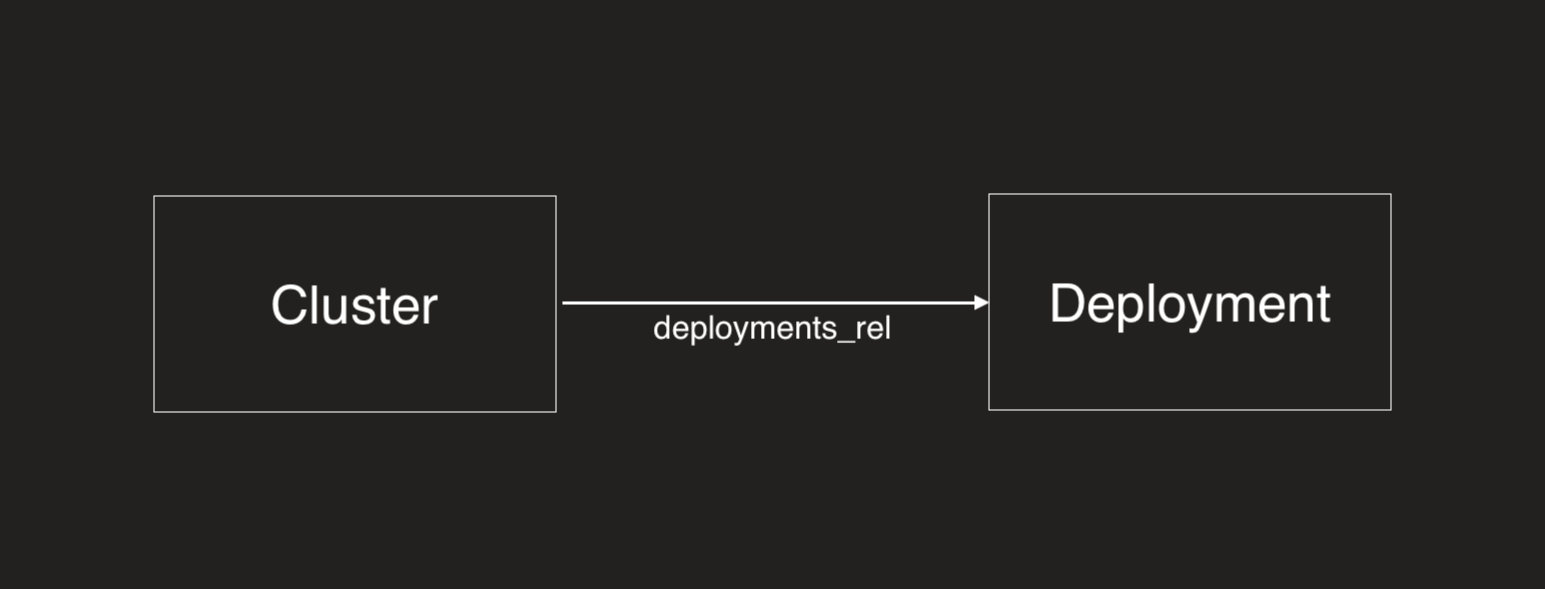
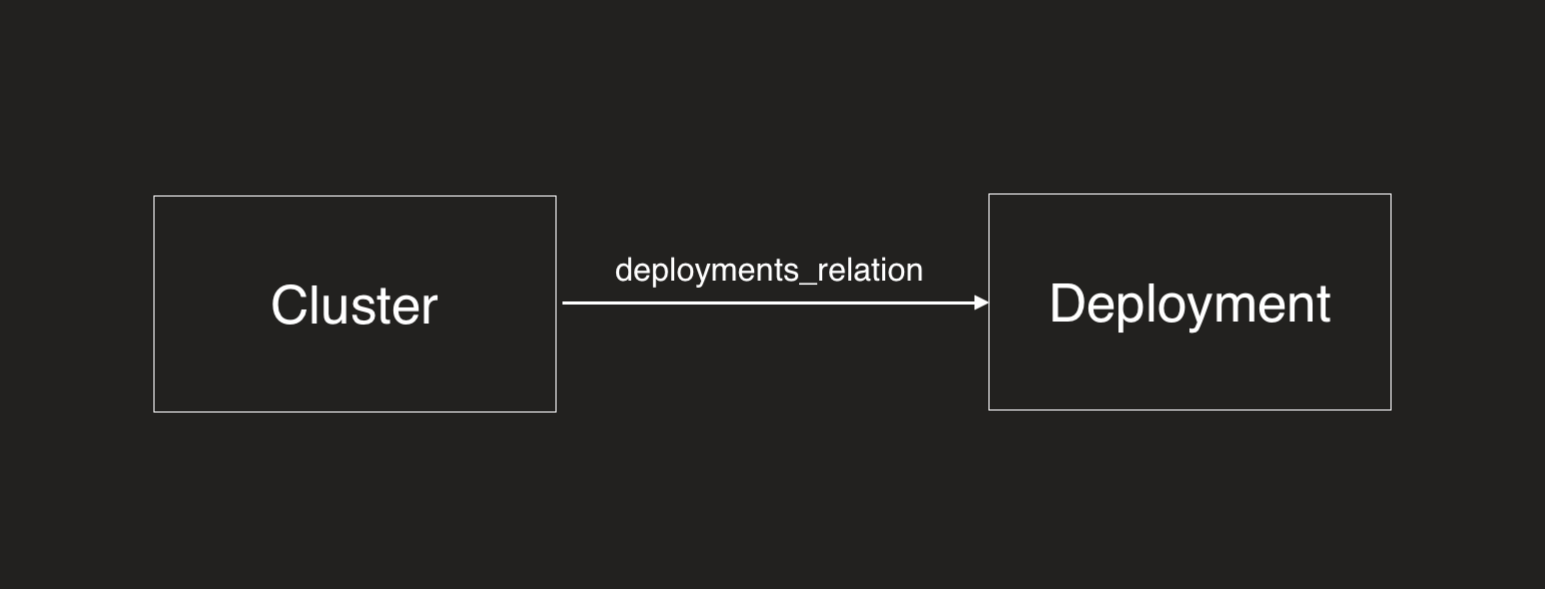
fixes

Changed region(s): [[0.4039, 0.4278, 0.5903, 0.489], [0.4039, 0.5195, 0.5903, 0.5806]]

diff --git a/docs/build-your-software-catalog/customize-integrations/configure-data-model/setup-blueprint/properties/aggregation-property.md b/docs/build-your-software-catalog/customize-integrations/configure-data-model/setup-blueprint/properties/aggregation-property.md
@@ -908,6 +908,9 @@ The `pathFilter` option lets you control which entities are included in your agg
 
 When a `pathFilter` is defined, Port will include only entities that can be reached through the exact relationship path you specify.
 
+- **Forwards path**: Following relations forwards, from the source of a relation to its target (e.g., from a repository to its services)
+- **Backwards path**: Following relations backwards, from the target of a relation to its source (e.g., from a service back to its repository)
+
 <h4> Structure </h4>
 
 | Field                     | Description                                                                                                          |
@@ -916,7 +919,7 @@ When a `pathFilter` is defined, Port will include only entities that can be reac
 | `pathFilter.fromBlueprint`  | *(Optional)* The blueprint to start the path traversal from. Can be the target blueprint or omitted. If omitted, traversal starts from the source blueprint. |
 
 
-<h4> For upstream paths </h4>
+<h4> For forwards paths </h4>
 
 ```json showLineNumbers
 {
@@ -928,7 +931,7 @@ When a `pathFilter` is defined, Port will include only entities that can be reac
 }
 ```
 
-<h4> For downstream paths </h4>
+<h4> For backwards paths </h4>
 
 ```json showLineNumbers
 {
@@ -955,7 +958,7 @@ Suppose you have the following data model:
 
 <TabItem value="api">
 
-<h4>Example 1: Standard Path Filter</h4>
+<h4>Example 1: Standard Path Filter - forwards path</h4>
 
 Count how many deployments are directly related to a cluster:
 
@@ -969,7 +972,7 @@ Count how many deployments are directly related to a cluster:
       "target": "deployment",
       "pathFilter": [
         {
-          "path": ["deployments_rel"]
+          "path": ["deployments_relation"]
         }
       ],
       "calculationSpec": {
@@ -981,9 +984,9 @@ Count how many deployments are directly related to a cluster:
 }
 ```
 
-The `pathFilter` with `"path": ["deployments_rel"]` counts deployments that are directly related to the cluster through the `deployments_rel` relation.
+The `pathFilter` with `"path": ["deployments_relation"]` counts deployments that are directly related to the cluster through the `deployments_relation` relation.
 
-<h4>Example 2: Using fromBlueprint</h4>
+<h4>Example 2: Using fromBlueprint - backwards path</h4>
 
 Count how many clusters are related to a deployment:
 
@@ -997,7 +1000,7 @@ Count how many clusters are related to a deployment:
       "target": "cluster",
       "pathFilter": [
         {
-          "path": ["deployments_rel"],
+          "path": ["deployments_relation"],
           "fromBlueprint": "cluster"
         }
       ],
@@ -1010,13 +1013,13 @@ Count how many clusters are related to a deployment:
 }
 ```
 
-The `fromBlueprint: "cluster"` specifies that the path traversal should start from the cluster blueprint (the target), then follow the path backwards through `deployments_rel` to deployment.
+The `fromBlueprint: "cluster"` specifies that the path traversal should start from the cluster blueprint (the target), then follow the path backwards through `deployments_relation` to deployment.
 
 </TabItem>
 
 <TabItem value="tf">
 
-<h4>Example 1: Standard Path Filter</h4>
+<h4>Example 1: Standard Path Filter - forwards path</h4>
 
 Count how many deployments are directly related to a cluster:
 
@@ -1025,7 +1028,7 @@ resource "port_blueprint" "cluster_blueprint" {
   identifier = "cluster"
   title      = "Cluster"
   relations = {
-    "deployments_rel" = {
+    "deployments_relation" = {
       title  = "Deployments"
       target = port_blueprint.deployment_blueprint.identifier
     }
@@ -1047,7 +1050,7 @@ resource "port_aggregation_properties" "cluster_aggregation_properties" {
       description                 = "Deployment Count"
       path_filter                 = [
         {
-          path = ["deployments_rel"]
+          path = ["deployments_relation"]
         }
       ]
       method                      = {
@@ -1058,9 +1061,9 @@ resource "port_aggregation_properties" "cluster_aggregation_properties" {
 }
 ```
 
-The `path = ["deployments_rel"]` counts deployments that are directly related to the cluster through the `deployments_rel` relation.
+The `path = ["deployments_relation"]` counts deployments that are directly related to the cluster through the `deployments_relation` relation.
 
-<h4>Example 2: Using fromBlueprint</h4>
+<h4>Example 2: Using fromBlueprint - backwards path</h4>
 
 Count how many clusters are related to a deployment:
 
@@ -1074,7 +1077,7 @@ resource "port_blueprint" "cluster_blueprint" {
   identifier = "cluster"
   title      = "Cluster"
   relations = {
-    "deployments_rel" = {
+    "deployments_relation" = {
       title  = "Deployments"
       target = port_blueprint.deployment_blueprint.identifier
     }
@@ -1091,7 +1094,7 @@ resource "port_aggregation_properties" "deployment_aggregation_properties" {
       description                 = "Cluster Count"
       path_filter                 = [
         {
-          path = ["deployments_rel"]
+          path = ["deployments_relation"]
           from_blueprint = "cluster"
         }
       ]
@@ -1103,7 +1106,7 @@ resource "port_aggregation_properties" "deployment_aggregation_properties" {
 }
 ```
 
-The `from_blueprint = "cluster"` specifies that the path traversal should start from the cluster blueprint (the target), then follow the path backwards through `deployments_rel` to deployment.
+The `from_blueprint = "cluster"` specifies that the path traversal should start from the cluster blueprint (the target), then follow the path backwards through `deployments_relation` to deployment.
 
 </TabItem>
 
